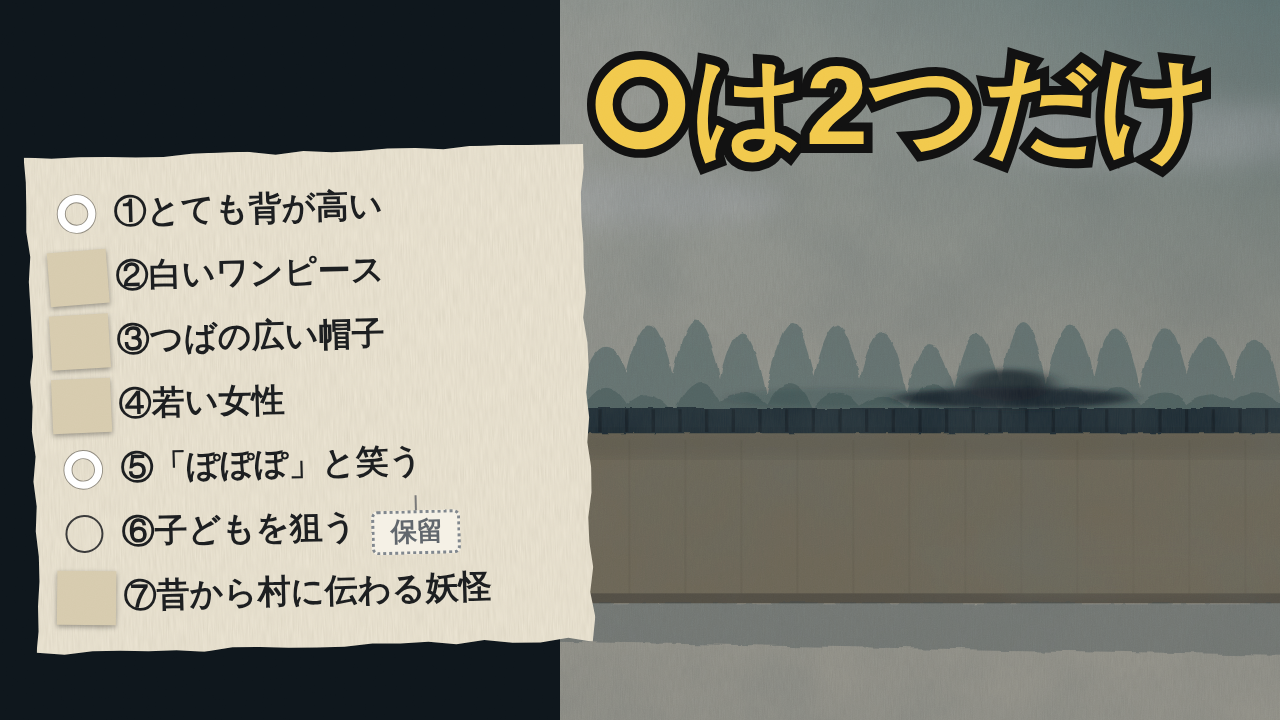
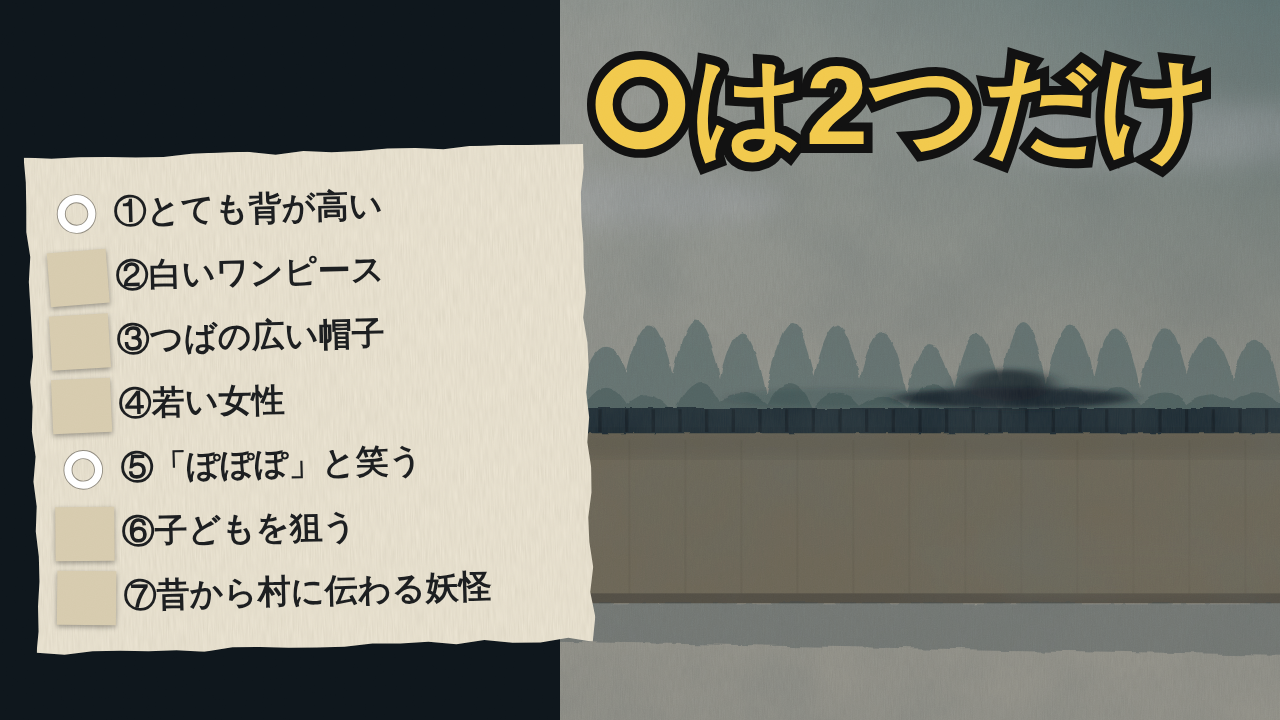
検品の差し戻しに対応（八尺様）：かぎかっこ内の「？」で字幕を切らない、ショート字幕の右余白を広げる、声の間のBGMをさらに下げる、サムネAの⑥保留の札を外す、034を耳で分かる言い方に（録り直し待ち）
Claude-Session: https://claude.ai/code/session_01Rj5drT4QkjttqSYdNahVgn

Changed region(s): [[0.2812, 0.7028, 0.375, 0.7944], [0.0312, 0.7028, 0.0938, 0.7944]]

diff --git a/都市伝説チャンネル/素材/tools/listen.py b/都市伝説チャンネル/素材/tools/listen.py
@@ -35,7 +35,7 @@ def clean_title(t):
 def split_sub(text, maxlen=46):
     """字幕用に文を区切る。「。？！」で区切り、長すぎる文は真ん中に近い「、」で分ける。
     「、」がなければ分けない（語の途中で切らない。画面側で文節の切れ目で折り返す）"""
-    parts = [p for p in re.split(r"(?<=[。？！])", text) if p.strip()]
+    parts = [p for p in re.split(r"(?<=[。？！])(?![」』）？！])", text) if p.strip()]   # かぎかっこの中の「？」では切らない
     out = []
     def cut(p):
         if len(p) <= maxlen: return [p]

diff --git a/都市伝説チャンネル/素材/tools/sound.py b/都市伝説チャンネル/素材/tools/sound.py
@@ -150,7 +150,7 @@ def loop_track(x, length, xfade=3.0):
         pos += len(x) - n
     return out
 
-def duck_gain(nar, speak_db=-9.0, attack=0.08, release=0.6):
+def duck_gain(nar, speak_db=-13.0, attack=0.08, release=0.6):
     """ナレーションが鳴っている間だけ BGM を speak_db 下げるゲイン（なめらかに上下）"""
     hop = int(0.02 * SR); n = len(nar) // hop + 1
     env = np.array([np.sqrt(np.mean(nar[i*hop:(i+1)*hop] ** 2) + 1e-12) for i in range(n)])

diff --git a/都市伝説チャンネル/作品/20261010_hasshaku-sama/07_検品.md b/都市伝説チャンネル/作品/20261010_hasshaku-sama/07_検品.md
@@ -1,0 +1,102 @@
+# 07_検品：八尺様（20261010_hasshaku-sama）
+
+- 検品：検品担当（densetsu-qa）／検品日：2026-10-11
+- 対象：`listen/八尺様_長尺_聞かせる版.mp4`（14分48秒）・`listen/八尺様_ショート_聞かせる版.mp4`（50秒）
+- 字幕の元：`03_台本_長尺.md`・`03_台本_ショート.md`（2026-10-10 本人の原文確認を反映した版）
+- 確かめ方：ffmpeg で画面を取り出して目で見た（長尺 23枚・ショート 9枚。置き場所は作業用フォルダ `scratchpad/qa_hasshaku/`）。字幕の全画像（長尺174枚・ショート11枚）は、文字のはみ出し・1文字だけの改行を数値で全数チェックした。音は volumedetect・ebur128・astats・silencedetect と、「完成音声 − ナレーション」の差分で BGM を取り出して測った
+
+## 判定：**差し戻し**
+
+画面・音の基本（尺、縦横の大きさ、声の大きさ、割れ、無音、ショートに章名なし）は合格。ただし、下の NG が残っているので、このままでは納品できない。
+
+### 差し戻し項目（直す担当・直し方）
+
+| # | どこ | 問題 | 直す担当 | 直し方 |
+|---|---|---|---|---|
+| 1 | 公開用資料（`06_編集長判断.md`） | 旧台本（⑥保留）のまま。概要欄の問いかけ「保留にした⑥『子どもを狙う』に、あなたなら何を付けますか？」、長尺の固定コメント（⑥に ○／△／― のどれ）、ショートの固定コメント（「保留にした『子どもを狙う』、あなたなら丸を付けますか？」）が、今の締め（冒頭で丸を付けた数／丸のまま残った数）と合わない | 編集長 | 問いかけ・固定コメントを今の締めに合わせて書き直す（例：「冒頭で丸を付けたのはいくつ？ 答え合わせで丸のまま残ったのは？」） |
+| 2 | 公開用資料のチャプター | 06 の時刻（見込み）が実際の章の頭と 8〜51秒ずれている（下の表） | 編集長 | 実測の時刻に直す：`0:00 あなたの八尺様チェック／0:32 昔話の顔をした怪談／1:21 第1章／3:08 第2章／6:37 第3章／9:22 第4章／11:56 答え合わせ` |
+| 3 | 公開用資料の出典 | 現代ビジネス 86782・86783 が「（本文未確認）」のまま。本人が 2026-10-10 に本文を確認済み（03 の修正履歴） | 編集長 | 2本は「確認日 2026-10-10（本人確認）」に直す。06 本文中の時刻（11:05〜13:20 など）も実測に合わせる |
+| 4 | サムネ A「○は2つだけ」（`images/thumb/thumb_A_○は2つだけ.png`） | ⑥「子どもを狙う」の横に「保留」の札が出ている（画像で確認）。今の判定は三角 | 演出担当 | `build.mjs` のサムネA `checklist({ hold: 1 })` を外し、⑥も他と同じく紙で隠す（答えを見せない方針のまま）。「○は2つだけ」の文言は今の台本と合っているので変えない |
+| 5 | 長尺 3:36（字幕 0044） | 字幕の行頭が「」」で始まる。「…集めてみない？」の「？」で区切ったため、閉じかっこが次の字幕に落ちた（画像で確認） | 演出担当 | `listen.py` の `split_sub` で、かっこの中の「？」「！」では区切らないようにして書き出し直す |
+| 6 | ショート全体の字幕の幅 | 字幕の右端が画面幅の最大 92.7%（0:37「ただ、声や振る舞いは…」）、89〜90%（0:42・0:48）、88%（0:07）まで来ていて、ショートの右端のボタン（高評価・コメント）の列にかかる。下端は 72% で下20%には入っていない | 演出担当 | 縦動画の字幕の幅を左右に余白をとって狭める（目安：右端を画面の 80〜85% まで） |
+| 7 | 長尺 10:13（台本 034「ここで、もう一度⑥です。」） | 聞かせる型では画面にチェックリストがなく、冒頭でも番号は読み上げていないので、「⑥」が何を指すのか聞いて分からない。字幕にも「⑥」とだけ出る（画像で確認） | 台本担当（＋代表の録り直し） | 「ここで、もう一度『子どもを狙う』です。」などに直す。声も直す必要があるので、この1文は録り直し（または字幕だけ直すかを代表が判断） |
+| 8 | 長尺の BGM と声の差 | 行ごとに測ると、173行中3行で 12dB を切る：8:29「若い人。」7.4dB、12:31「子どもを狙う。」10.2dB、0:06「白いワンピース。」11.0dB。どれも短い言葉で、ダッキング（話す間に BGM を下げる）が下がりきる前に終わっている | 演出担当 | `sound.py` の `duck_gain` の下げ始めを早める（先読み）か、下げ幅を大きくする。特に「若い人。」は第3章の要の言葉 |
+| 9 | 長尺の最後 | 最後の言葉が終わって 0.1秒で動画が終わる（余韻なし）。台本 13:40〜13:50 の「出典テロップ・終了画面」の区間が入っていない。YouTube の終了画面（最後の5〜20秒）を置く余白もない | 演出担当 | 最後の行のあとに数秒〜10秒の静かな区間（出典の一言・終了画面用）を足す |
+| 10 | 長尺の最初 | タイトル画面「八尺様／7つの特徴を答え合わせ」が 0.25秒だけ出て消える（一瞬ちらつくだけで読めない） | 演出担当 | 2〜3秒出すか、外す |
+| 11 | 台本の書類の食い違い（動画には出ていない） | ショート台本 0:50 のテロップ欄「⑥保留→あなたなら○？」、原文確認表 0:50 の行、長尺台本のヘッダー「オチ」、9:45・11:35・13:20 のテロップ欄・画面メモがまだ「保留」のまま | 台本担当 | 今の判定（⑥三角・締めは丸の数）に合わせて書き直す。テロップを画面に出す型に戻したとき、古い文言が出ないように |
+
+### 確認してほしいこと（NGと決めきれないもの）
+- **長尺 9:55 と 10:16 の言い方の食い違い**：同じ現代ビジネス 86783 の説明を、9:55 では「子どもを積極的に狙うこと」（山女の話との違い）、20秒後の 10:16 では「記事は、若い人を積極的に狙うことを、八尺様の特徴として挙げています」と言っている。記事の言葉がどちらなのか、台本担当が本人の原文確認メモで確かめてほしい（記事が「子ども」と書いているなら 10:16 は言い換えすぎ）
+
+## 確かめた項目ごとの結果
+
+### 画面
+| 項目 | 結果 | 根拠 |
+|---|---|---|
+| 縦横の大きさ | OK | 長尺 1920×1080・24fps、ショート 1080×1920・24fps（ffprobe） |
+| ショートに章名・見出し・作業用の文字がない | **OK** | 11枚すべて章名なし（jobs.json の chapter が全部空）。0:00・0:02・0:10・0:17・0:30・0:40・0:45・0:49・0:50 の画面を目で見て、左上に何も出ていないことを確認。2026-10-11 の「台本」が出たミスは直っている |
+| 長尺の章名が台本の章と合っている | OK | 0:02「あなたの八尺様チェック」／0:33「昔話の顔をした怪談」／1:22「第1章 定番の八尺様を分解する」／3:10「第2章 原本にたどり着けない／食い違う「誕生」」／6:38「第3章 見る人によって姿が変わる」／9:23「第4章 「昔から」はどこから来たのか」／12:00「答え合わせ」を画面で確認。台本の見出し（時刻を除く）と一致 |
+| 作業用の文字（台本・L01・仮・TODO） | OK | 両方の jobs.json に該当なし。「未確認」は台本どおりのナレーションの言葉 |
+| 字幕のはみ出し・1文字だけの改行 | OK（長尺）／NG（ショートの右端 → #6） | 全185枚を数値でチェックして、はみ出し・1文字だけの行はなし |
+| 字幕が背景に埋もれない | OK | 字幕のまわりの背景の明るさは、いちばん明るい所でも 0〜255 で平均59・上位5%で89（ショート G08b）。長尺は平均18〜57。白い字幕は全部読めた（画面で確認） |
+| 字幕の区切り | NG（3:36 → #5） | 「」というスレッドの…」が行頭に来る |
+| 誤字・脱字、台本との食い違い | OK | 字幕は台本の文章からそのまま作られていて、両方を突き合わせて差はなかった。ただし「⑥」が聞いて分からない点は #7 |
+| ショートの下20%・右端 | 下は OK（字幕の下端 72%）／右端は NG（→ #6） | |
+| 最初の画面・最後の画面 | 長尺の最初は NG（→ #10）。長尺の最後（14:47）は最後の字幕のまま終わる（→ #9）。ショートの最初（0:00）は1行目の字幕から始まり、最後（0:50）は「あなたは、いくつ当たるでしょうか。」 | |
+
+### 音
+| 項目 | 結果 | 数字 |
+|---|---|---|
+| 声の大きさ（目安 -16〜-18） | OK | 長尺 -16.3 LUFS（平均 -16.4 dB）／ショート -16.3 LUFS（平均 -16.1 dB）。LRA 3.6／2.7 |
+| 割れ | OK | ピーク：長尺 -0.5 dBFS（mp4）・-0.3 dBFS（完成音声 wav）、ショート -1.1 dBFS。Flat factor 0（0 dB に張り付く所なし）。※長尺のピークは BGM を足したあとで -1 dB をわずかに超えている。割れではないが、#8 を直すときに一緒に -1 dB 以下に抑えるとよい |
+| BGM が声より小さい（声の区間で 12dB 以上） | 全体は OK／3行 NG（→ #8） | 行ごとの差の中央値：長尺 18.3dB（最小 7.4dB）、ショート 19.8dB（最小 14.3dB。全行 OK） |
+| 曲のつなぎ目 | OK | 曲（109秒、終わりに2.3秒の無音あり）は約106秒ごとに3秒重ねてつないでいる。つなぎ目（1:46・3:32・5:18 など）で BGM が途切れきる所はない。BGM が -55dB 以下に下がる所は、曲そのものの静かな部分（曲の4〜6秒目など）と同じ形 |
+| 冒頭の無音（1秒以内） | OK | 長尺 0.32秒・ショート 0.33秒 |
+| 途中の長い無音（2秒超） | OK | 1秒を超える無音は長尺で9か所（最長 1.15秒。どれも章の変わり目）。ショートは1秒を超える無音なし |
+| 言い直し・見込みより長い行 | 代表に確認（下） | `audio/当てはめ結果_*.md` は作られていなかったため、検品担当が `narrate.py` の当てはめ（読み取りだけ）を流して数字を出した。自動の言い直し削除で落とされた行はなし |
+
+### 中身と約束
+| 項目 | 結果 | 根拠 |
+|---|---|---|
+| 長さ | OK | 長尺 14分48秒（10分以上）／ショート 50秒（3分以内） |
+| 冒頭の予告を最後に回収 | OK | 冒頭（0:04〜0:32）の7項目 → 答え合わせ（11:56〜12:59）で7つ全部に判定 → 14:03「迷わず丸を付けられたのは、7つのうち、2つだけ」 |
+| 締めの問いかけ | OK | 長尺 14:15〜14:49（丸を付けた数／丸のまま残った数をコメントで）。ショート 0:48「あなたは、いくつ当たるでしょうか。」 |
+| 概要欄のチャプター時刻（2秒以内） | **NG（→ #2）** | 下の表 |
+| タイトル・サムネが本編と合っている | タイトルは OK、サムネ A は NG（→ #4） | 長尺タイトル「最初の八尺様に『白い服』はあったのか？7つの特徴を答え合わせ」は 6:53〜7:11 と 12:06（三角）で回収できる。ショートのタイトル「八尺様に『決まった姿』はなかった？」はショート 0:00 と本編 6:37〜 で回収できる。サムネ A の「○は2つだけ」は 14:03 で回収できるが、⑥の「保留」の札が今の判定と違う |
+
+チャプターの見込みと実際：
+
+| 章 | 06 の見込み | 実際の章の頭（字幕の切り替わり） | ずれ |
+|---|---|---|---|
+| あなたの八尺様チェック | 0:00 | 0:00 | 0 |
+| 昔話の顔をした怪談 | 0:40 | 0:32.7 | -7秒 |
+| 第1章 | 1:40 | 1:21.8 | -18秒 |
+| 第2章 | 3:30 | 3:08.4 | -22秒 |
+| 第3章 | 6:25 | 6:37.9 | +13秒 |
+| 第4章 | 9:00 | 9:22.4 | +22秒 |
+| 答え合わせ | 11:05 | 11:56.2 | +51秒 |
+
+## 代表に聞いてもらいたい箇所（長尺の動画の時刻）
+
+波形と無音の位置から分かる範囲で調べた。行の中で 1.5秒以上の間がないため、自動の言い直し削除はどちらの行でも働いていない。声のかたまり同士の音の形を比べたが、同じ言葉を2回言った跡（繰り返し）ははっきりとは出なかった。**言い直しがあるかないかは、波形だけでは決められない**ので、耳で確かめてほしい。
+
+1. **10:58〜11:14（台本 036「そして、『八尺様』という名前そのものが…出てきませんでした。」）**
+   - 声の長さ 12.7秒。文字数から見込む長さ 8.4秒の 1.5倍
+   - 声のかたまりは5つ（2.6秒／2.0秒／4.9秒／0.9秒／2.4秒）。前の3つで見込みの長さにほぼ届くので、**11:09.9〜11:13.5 の後ろ2つ**に、言い直し・言いよどみ・文の後半の読み直しがないか
+2. **13:40〜14:03（台本 044「投稿が完全な創作なのか…考えています。」）**
+   - 声の長さ 19.0秒。見込み 12.4秒の 1.5倍
+   - **13:45.4〜13:48.5** に 0.4〜0.9秒の短い声のかたまりが3つ続く（そのうち1つはサ行の音か、息・こすれる音のような高い音が多い）。言いかけ・言いよどみ・雑音が残っていないか
+3. **13:57〜14:15（044 と 045 の境目。字幕がずれていないか）**
+   - 044 は見込みの 1.5倍と長く、次の 045「迷わず丸を付けられたのは、7つのうち、2つだけ。…」は 0.65倍と短い。2行を合わせると見込みとほぼ同じ（28.5秒／27.0秒）
+   - 行の割り当てが1かたまりずれていると、**一番の決めぜりふ「2つだけ」の字幕が声より遅れて出る**。13:57.7〜14:02.9 の声が「そこは詮索するところではないと考えています」か「迷わず丸を…2つだけ」か、字幕と声が合っているかを見てほしい
+4. **8:29「若い人。」** BGM との差が 7.4dB しかない。聞き取りにくくないか（#8）
+5. **10:13「ここで、もう一度⑥です。」** どう読んだか（「ろく」など）。聞いて意味が通るか（#7）
+6. そのほか、見込みより 1.3倍以上長かった行（言いよどみが残っている可能性。優先度は低め）：4:46〜5:11（019 Snopes の段、1.41倍。行の中の 2.7秒の間を 0.45秒に詰めている）、5:34〜6:02（021、1.30倍）、10:13〜10:40（034、1.32倍）、14:15〜14:49（046 締め、1.38倍）
+
+## 改善したほうがよい所（差し戻しの条件にはしない）
+- 字幕の改行が言葉の途中で入る所がある：3:15「記／事では」、3:26「死ぬ／程」、3:08「記事／や解説」、13:40「体験／を」、14:38「読／んだ」、12:32「若／い人」、ショート 0:00「な／かった」・0:42「を、」が行頭。読めるが、文節で改行するとさらに読みやすい
+- 答え合わせの「丸。」「三角。」の字幕は 0.4〜0.6秒しか出ない。画面にチェックリストがないので、結果の伝わり方が声だけに頼っている。答え合わせの間だけ、記号の一覧を画面に出す案も考えられる（演出担当の判断）
+- BGM は1曲を通しで流しているが、効果音は入っていない（`sound.py` の効果音リストが空）。代表の指示「効果音はシーンに合わせる」との関係は演出担当が確認
+
+## 視聴者目線のひとこと
+一番の聞きどころは、第3章 6:42 の「人によってその年齢や服装は様々に見える」から、答え合わせで「迷わず丸を付けられたのは、7つのうち、2つだけ」（14:03）に落ちる流れ。冒頭で自分が付けた丸がどんどん崩れていくのが気持ちよく、最後の「いくつ残りましたか」にそのまま答えたくなる。だからこそ、決めぜりふの字幕と声のずれ（代表確認 3）と、「⑥」が聞いて分からない所（#7）は直してから届けたい。

diff --git a/都市伝説チャンネル/作品/20261010_hasshaku-sama/03_台本_長尺.md b/都市伝説チャンネル/作品/20261010_hasshaku-sama/03_台本_長尺.md
@@ -5,7 +5,7 @@
 - 想定尺：約13分50秒（ナレーション約4,200字。1分あたり約330字＋間で計算。収録後に実測でチャプターを直す）
 - 軸：元の記録と後から広まった話の違い
 - この回の型：**冒頭で7項目のチェックリストを出し、最後に一つずつ答え合わせする**。終盤の「分かったこと／分からないこと」の段は置かず、答え合わせの中に吸収する（同日のきさらぎ駅・かごめかごめと終盤の形を変える）
-- オチ：「迷わず丸を付けられたのは7つのうち2つ」＋「保留にした⑥に、あなたなら何を付けますか」（チェックリストへの参加を促す問い。「あなたが思い浮かべた〇〇」型・「どの段階の〇〇を知っていましたか」型の締めにはしない）
+- オチ：「迷わず丸を付けられたのは7つのうち2つ」＋締めの問い「冒頭で丸を付けた数と、丸のまま残った数」（2026-10-10 更新）
 
 ## 台本全体の前提（演出・チェック担当へ）
 - リサーチは WebSearch の抜粋ベースで、**どの出典も本文未確認**。台本では「〜と紹介されています」「〜とされています」で語り、断定は避けた。公開前に末尾の「原文確認リスト」を本人がブラウザで確認すること
@@ -88,7 +88,7 @@
 | 7:15〜7:35 | では、見る人が変わっても変わらない部分は何か。同じ記事は、共通点を挙げているとされます。人間の女の姿であること。頭に何かを載せていること。そして、男のような声で「ぽぽぽ」と笑うこと。これが元の投稿の中の言葉なのか、記事がまとめた言葉なのかは、まだ分かっていません。 | 記事が挙げる共通点：①人間の女の姿 ②頭に何かを載せている ③男のような声で「ぽぽぽ」／【未確認】元の投稿の言葉か、記事のまとめか | 3通りのシルエットに共通部分だけを光らせる。【演出変更】テロップの見出しを「記事が挙げる共通点」にし、右下に「未確認」の札 |
 | 7:35〜7:50 | 帽子についても、共通点としては「帽子」ではなく、「頭に何かを載せている」という書き方で紹介されています。今よく描かれる、つばの広い帽子という形が元の話にあったのかは、たどれていません。 | 共通点の書き方は「頭に何か」／帽子の形：【未確認】 | 頭の上の部分だけに「？」マーク |
 | 7:50〜8:05 | そして「ぽぽぽ」。文字で見るとどこか可愛らしい響きですが、要約では、男のような声だとされています。可愛い擬音だけが一人歩きすると、この不気味さは見えなくなります。 | 「ぽぽぽ」は男のような声とされる | 丸文字の「ぽぽぽ」が、低くかすれた書体に変わる。低音の効果音 |
-| 8:05〜8:25 | 子どもを狙う、という点はどうか。現代ビジネスの記事は、元の話で被害に遭うのは高校生の少年で、八尺様が狙う可能性が高いのは若年の人間だ、と書いています。海外では「子どもをさらう女」と強調されますが、元の話で狙われるのは、子どもというより、若い人。ここに、少しずれがあります。 | 「子どもを狙う」：元の話での書き方【未確認】 | チェックリスト⑥に「保留」の札 |
+| 8:05〜8:25 | 子どもを狙う、という点はどうか。現代ビジネスの記事は、元の話で被害に遭うのは高校生の少年で、八尺様が狙う可能性が高いのは若年の人間だ、と書いています。海外では「子どもをさらう女」と強調されますが、元の話で狙われるのは、子どもというより、若い人。ここに、少しずれがあります。 | 「子どもを狙う」：元の話での書き方【未確認】 | チェックリスト⑥に「三角」の札 |
 | 8:25〜8:45 | まとめると、元の話の八尺様は、決まった一つの姿を持っていなかった可能性が高い。今の「白いワンピースの女」という定番は、元の話にある一つの例が、固まったものだと考えられます。ただ、それがいつ、誰の絵から固まったのかは、まだたどれていません。 | 「一つの例」が定番に固まった？／固まった時期：【未確認】 | 3通りのシルエットが1つに重なって「定番の姿」になる演出 |
 | 8:45〜9:00 | では、もう一つの疑問。2008年に生まれたとされる怪談が、なぜこんなに「昔からいる妖怪」に感じられるのか。江戸時代の本に、よく似た話が一つあります。でも、答えは別の場所にありました。 | なぜ「昔からいる」と感じるのか／江戸の本に、よく似た話が一つ | 【演出変更】和綴じ本のイメージ（生成・イメージ。実在の古書の画像は使わない）→最後の一文で本から視線が外れ、遠くの村の影へ移る（「答えは別の場所」を画で予告） |
 
@@ -98,7 +98,7 @@
 |---|---|---|---|
 | 9:00〜9:20 | 江戸時代の儒学者、岡田新川の随筆『秉穂録』。現代ビジネスの記事によると、この本には、山の中で身の丈八尺の女の死骸を見た、という話が載っているそうです。髪は足まで届き、口は耳まで裂けていた、と紹介されています。 | 第4章 「昔から」はどこから来たのか／岡田新川『秉穂録』に「身の丈八尺の女」（現代ビジネスの紹介による） | 章タイトル。和紙の質感の背景に文字だけ（原典の画像は出さない）。地名・実在の山の映像は使わない。書名の読み（ルビ）は確認できるまで出さない |
 | 9:20〜9:45 | 八尺の女。思わず、つながりを探したくなります。ですが同じ記事は、違いも指摘しています。「ぽぽぽ」という声。頭に何かを載せていること。子どもを積極的に狙うこと。こうした八尺様の特徴は、昔の山女の話には見られない。そして八尺様は、山ではなく、人の住む村の中に現れる、と。 | 声・頭の載せ物・子どもを狙う点は、昔の山女の話に見られない（同記事の指摘） | 2列の比較表：『秉穂録』の八尺の女／八尺様。一致は「背丈」だけ |
-| 9:45〜10:05 | ここで、もう一度⑥です。記事は、若い人を積極的に狙うことを、八尺様の特徴として挙げています。元の話にも、若い人が狙われる筋書きはある。ただ、それは「子ども」というより、高校生のような若者でした。 | 記事が挙げた特徴：子どもを狙う／元の投稿での書き方：【未確認】→⑥は保留のまま | 【演出追加】画面右上のチェックリストを一瞬大きくし、⑥の「保留」の札を2段に分ける（上「記事：特徴として挙げる」／下「元の投稿：未確認」）。札は保留のまま戻す |
+| 9:45〜10:05 | ここで、6つ目の「子どもを狙う」を、もう一度見てみます。記事によると、元の話で被害に遭うのは高校生の少年で、狙う可能性が高いのは若年の人間。つまり狙われるのは、子どもというより、若者でした。 | 記事が挙げた特徴：子どもを狙う／元の投稿での書き方：【未確認】→⑥は三角 | 【演出追加】画面右上のチェックリストを一瞬大きくし、⑥の「三角」の札を2段に分ける（上「記事：特徴として挙げる」／下「元の投稿：未確認」）。札は三角戻す |
 | 10:05〜10:20 | 『秉穂録』が八尺様の元ネタだ、という説もネット上にはあります。ただ、投稿した人がこの本を参考にしたという証拠は見つかっていません。似ていることと、そこから生まれたことは、別の話です。 | 「元ネタ説」：参考にした証拠は見つかっていない | 2つの絵の間に点線。線に「？」 |
 | 10:20〜10:30 | そして、「八尺様」という名前そのものが書かれた古い民俗資料も、今回の調査の範囲には出てきませんでした。 | 「八尺様」の名がある古い記録：【未確認】 | 年表の2008年より左側が空白のまま |
 | 10:30〜10:55 | では、あの古さはどこから来るのか。答えの一つは、話の中にあります。村の地蔵による封印。前回の被害は、およそ15年前。祖父母や、Kと呼ばれる老婆が、昔からの恐れとして語る。八尺様が「昔から村に伝わる存在」であることは、物語の中の設定なんです。 | 「昔から伝わる」は物語の中の設定 | 物語の中の年表（作中の「15年前」など）と、現実の年表を上下に並べる |
@@ -112,12 +112,12 @@
 |---|---|---|---|
 | 11:05〜11:10 | では、冒頭のチェックリスト。答え合わせです。 | 答え合わせ | チェックリストが中央に。記号の凡例「○ 元の話にあるとされる／△ 一つの例・形は未確認／― 決まっていない／保留 確認できず」 |
 | 11:10〜11:35 | とても背が高い。丸。「ぽぽぽ」と笑う。丸。ただし、男のような声で。白いワンピース。三角。語り手が見た、一つの例とされます。つばの広い帽子。三角。元の話の共通点は「頭に何かを載せている」と紹介されていて、帽子の形は、未確認のままです。 | ①○ ⑤○（男のような声）②△（語り手が見た一例とされる）③△（共通点は「頭に何か」と紹介／形は未確認） | 読み上げに合わせて記号を書き込む。各記号の横に小さな一言を添える |
-| 11:35〜11:55 | 若い女性。決まっていません。若い女にも、老婆にも見えるとされます。子どもを狙う。三角。元の話で狙われるのは、高校生の少年のような若い人とされ、子どもとまでは言えないからです。 | ④―（若い女にも老婆にも見えるとされる）⑥保留（記事は特徴に挙げる／元の書き方は未確認） | 記号を書き込む |
+| 11:35〜11:55 | 若い女性。決まっていません。若い女にも、老婆にも見えるとされます。子どもを狙う。三角。元の話で狙われるのは、高校生の少年のような若い人とされ、子どもとまでは言えないからです。 | ④―（若い女にも老婆にも見えるとされる）⑥三角（記事は特徴に挙げる／元の書き方は未確認） | 記号を書き込む |
 | 11:55〜12:22 | 最後に、昔から村に伝わる妖怪。話の中では、丸。村の地蔵、前回の被害、老婆の言い伝え。でも話の外に出ると、2008年より前に「八尺様」の名がある記録は、見つかっていません。江戸の「八尺の女」も、似てはいても、起源とまでは言えない。Snopesも、実際の出来事の記録ではなく、都市伝説と位置づけています。 | ⑦ 話の中では○／話の外では2008年より前の記録なし（今回の調査の範囲）／Snopes：都市伝説と位置づけ | ⑦だけ枠を上下に割って記号を2つ書く。上段「話の中」に○、下段「話の外」に「記録なし」 |
 | 12:22〜12:45 | 話の外でたどれる八尺様の歩みは、2008年からです。しかも、親しみやすく描くことは、ネットに書き込まれた初期からあった、と現代ビジネスは指摘しています。2021年には怪異の解説本に取り上げられ、2026年7月には、八尺様を題材にしたゲームも発売されました。 | 親しみやすい描かれ方は初期から（現代ビジネスの指摘）／2021年 解説本・2026年7月 ゲーム | 【演出変更】⑦の下段「話の外」から、現実の年表が右へ伸びる（2008→2021→2026）。書名・作品名は文字のみ（『21世紀日本怪異ガイド100』『八尺様がいた夏休み』）。ゲーム画面・書影は権利確認が済むまで出さない |
 | 12:45〜13:00 | 投稿が完全な創作なのか、何かの体験を元にしたのかは、分かりません。投稿した人についても分かっておらず、そこは詮索するところではないと考えています。 | 創作か、体験の脚色か：不明／投稿者：詮索しません | 年表の2008年の旗だけを残し、静かに引く |
 | 13:00〜13:20 | 迷わず丸を付けられたのは、7つのうち、2つだけ。私たちが「八尺様の姿」だと思っていたものの多くは、見る人によって変わるはずの姿を、一つの例で固めたものだったのかもしれません。 | 迷わず○は 7つのうち 2つ | 完成したチェックリスト。②③④の記号がかすかに揺れる |
-| 13:20〜13:40 | 冒頭で、あなたが丸を付けたのは、いくつでしたか。そして、そのうちいくつが、答え合わせでも丸のまま残ったでしょうか。よければ、その数をコメントで教えてください。元の話を読んだことがある方は、どこで読んだかも添えてもらえるとうれしいです。 | 保留にした⑥、あなたなら何を付ける？ | 【演出変更】チェックリストの⑥の欄だけが空欄のまま光る。冒頭と同じ塀と帽子の影が、⑥の空欄の前を横切って暗転（顔は見せない） |
+| 13:20〜13:40 | 冒頭で、あなたが丸を付けたのは、いくつでしたか。そして、そのうちいくつが、答え合わせでも丸のまま残ったでしょうか。よければ、その数をコメントで教えてください。元の話を読んだことがある方は、どこで読んだかも添えてもらえるとうれしいです。 | 三角にした⑥、あなたなら何を付ける？ | 【演出変更】チェックリストの⑥の欄だけが空欄のまま光る。冒頭と同じ塀と帽子の影が、⑥の空欄の前を横切って暗転（顔は見せない） |
 | 13:40〜13:50 | （ナレーションなし） | 出典：現代ビジネス（講談社）／Snopes／講談社（書誌）／gamebiz ほか ※出典の一覧は概要欄に | 出典一覧のテロップ。終了画面 |
 
 ---
@@ -193,3 +193,4 @@
 - 第3章（姿は見る人によって違う）を記事の文言に合わせて言い切りに。⑥「子どもを狙う」は保留をやめ、三角（元の話で狙われるのは高校生の少年＝若い人で、子どもとまでは言えない）。迷わず丸は2つのまま（サムネA「○は2つだけ」は変更なし）
 - 締めの問いを「冒頭で丸を付けた数と、丸のまま残った数」に変更（きさらぎ駅・かごめかごめの問いと型が重ならない）
 - チャンネルを「聞かせる型」にする本人方針（2026-10-10）に合わせ、「画面の札でお知らせ」など画面に頼る言い方を、耳で分かる言い方に直した
+- 034 を、番号「⑥」だけでは耳で分からないため「6つ目の『子どもを狙う』」と言い直し、記事の言葉（被害に遭うのは高校生の少年／狙う可能性が高いのは若年の人間）にそろえた（2026-10-11 検品の指摘。録り直し）
